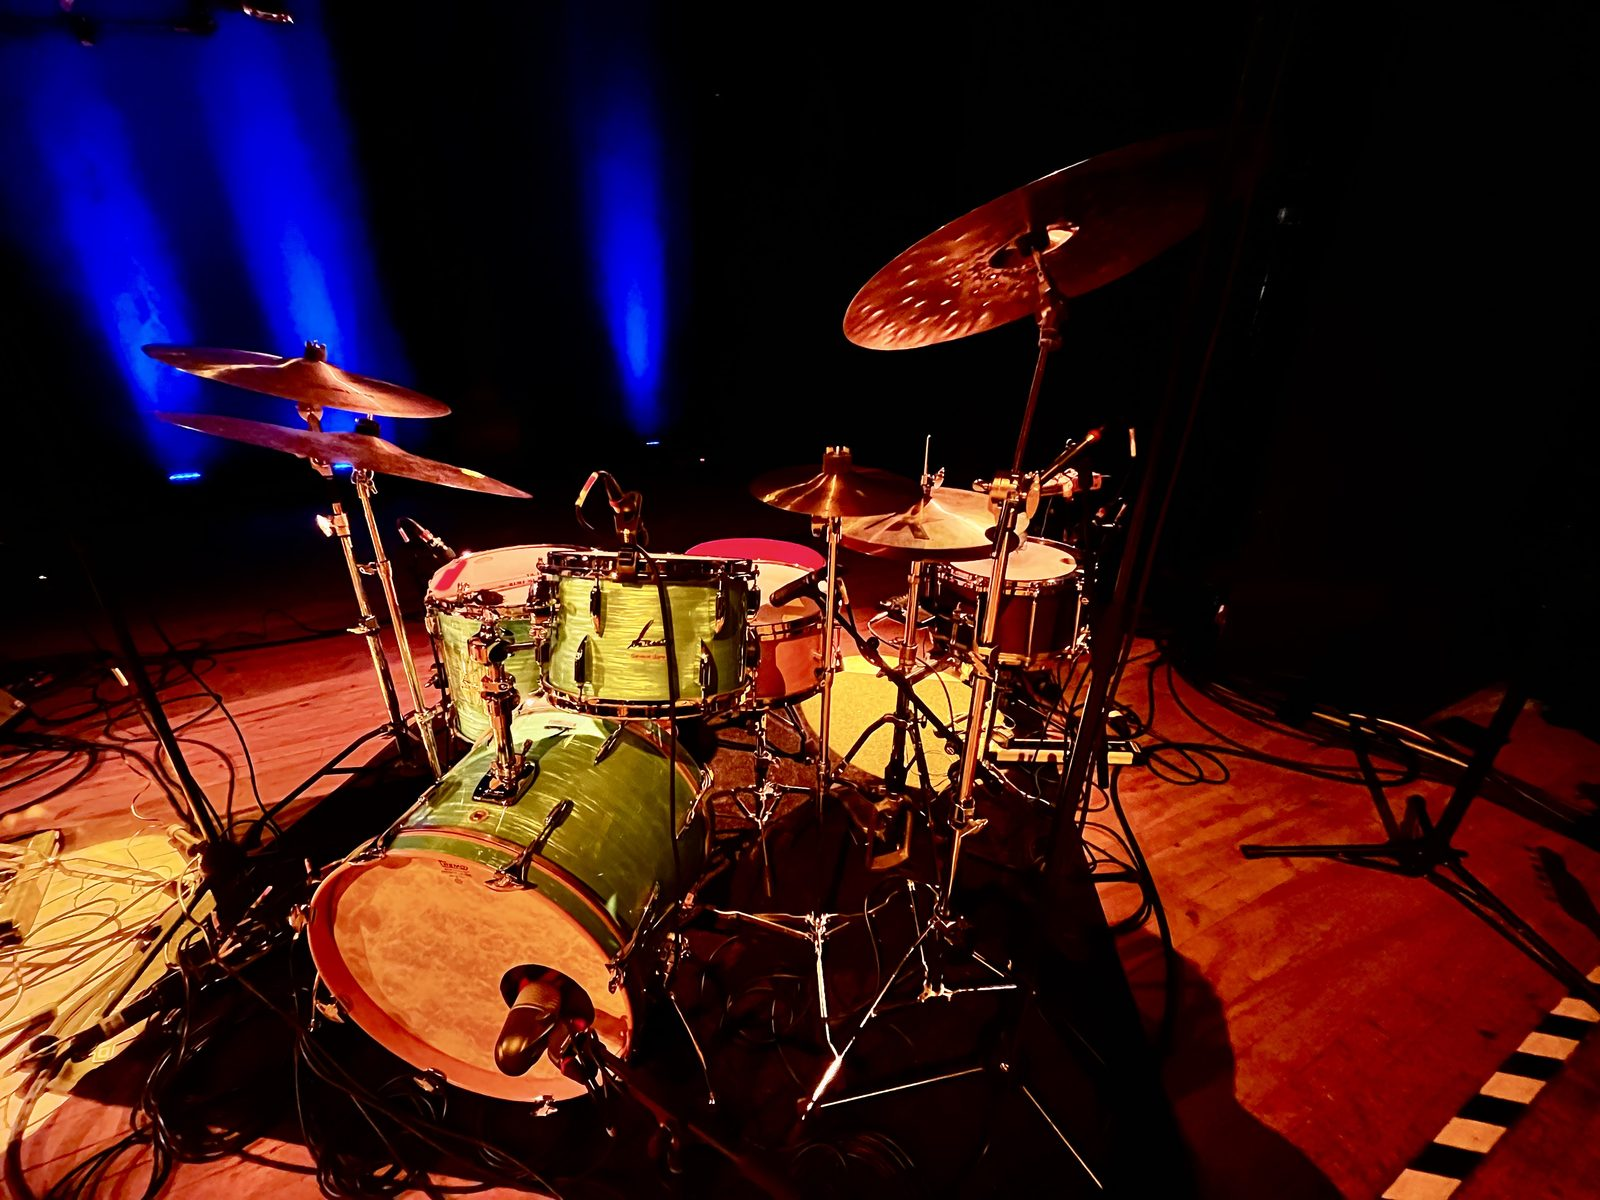
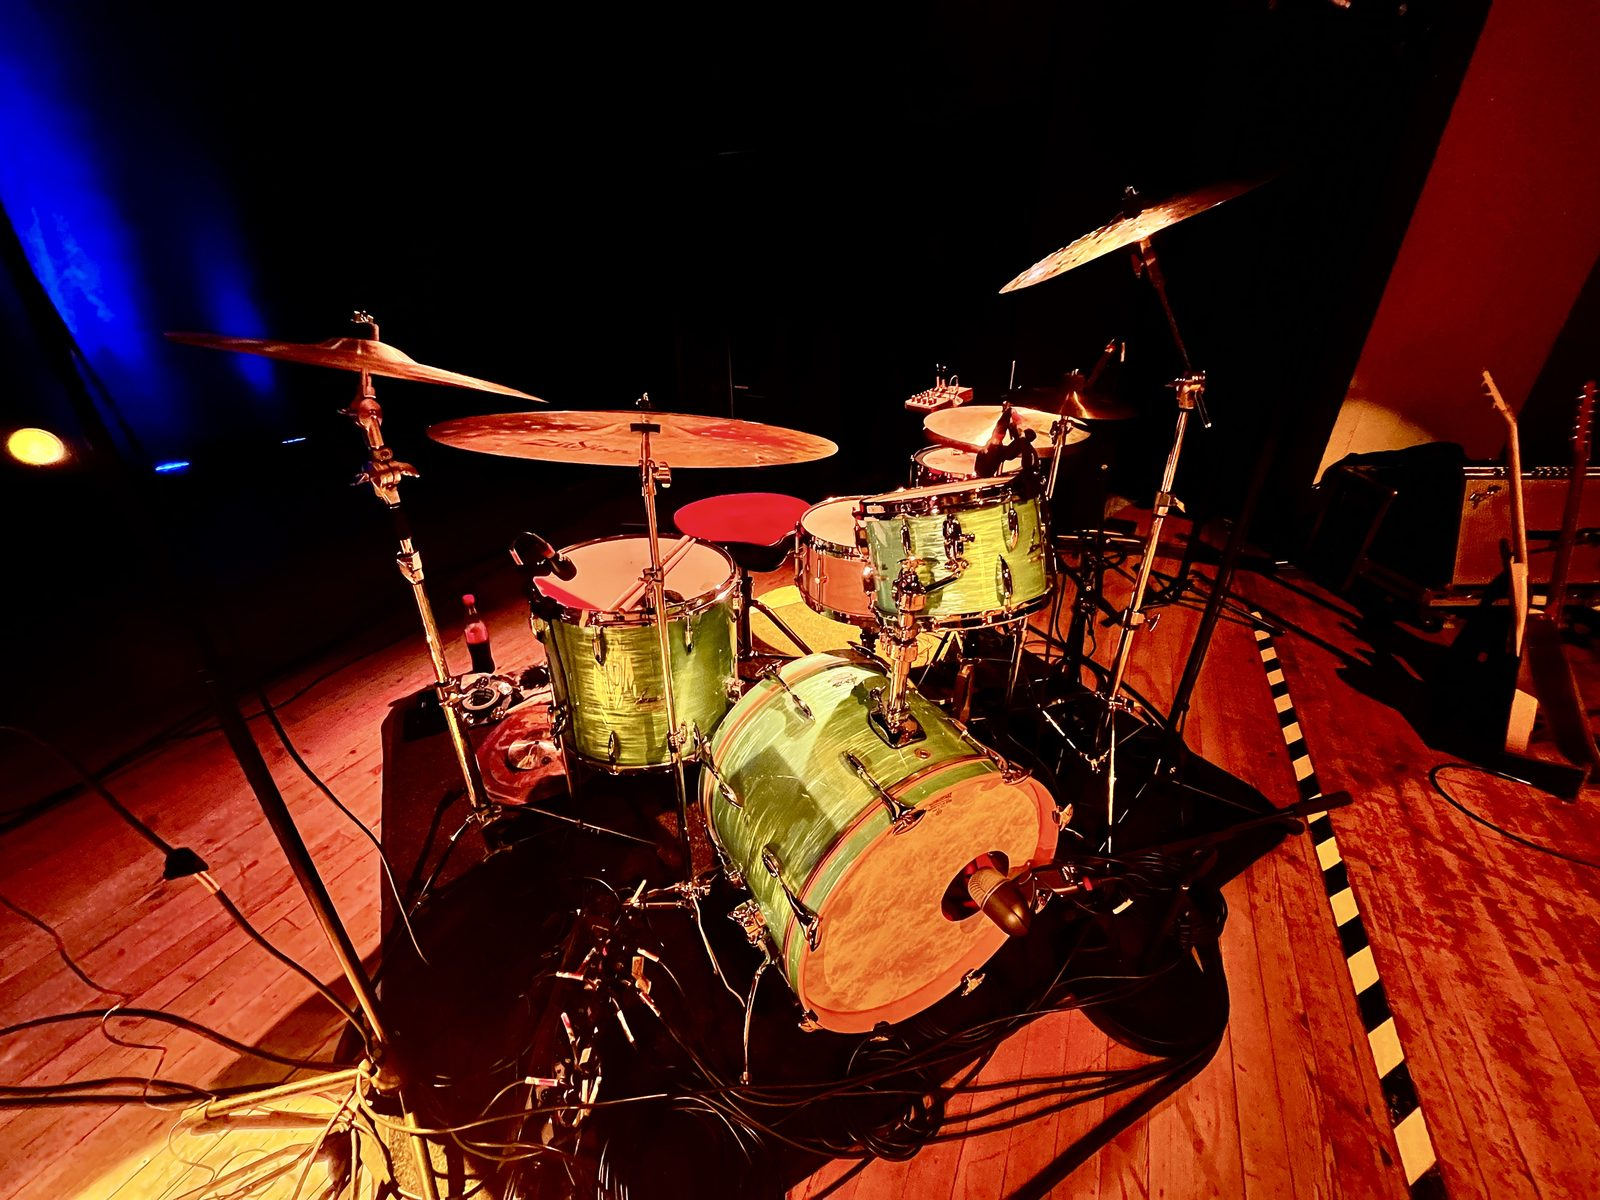
Sonor-Fotos: Bild 2 und 3 getauscht

diff --git a/CLAUDE.md b/CLAUDE.md
@@ -566,7 +566,7 @@ Abstand nach oben), Satz `gear.sonor.text` (i18n, 3 Sprachen — bewusst nur
 Behauptung, da Leo es als "mein Sonor Vintage Series" beschrieb), darunter
 eine normale `.epk-gallery.epk-gallery--color` mit 4 Fotos des grünen Kits
 (`assets/images/sonor-photo-1.jpg`–`-4.jpg`, aus iPhone-Originalen
-`IMG_8338/8339/8343/8346.jpeg` 4032×3024 auf 1600×1200 skaliert, JPEG q82;
+`IMG_8338/8343/8339/8346.jpeg` (in dieser Reihenfolge, 2↔3 getauscht) 4032×3024 auf 1600×1200 skaliert, JPEG q82;
 Grid zeigt sie quadratisch zugeschnitten, die Lightbox das volle 4:3-Bild).
 Kein Credit/`data-credit` (Leos eigene Fotos). Originale in
 `Inbox/processed/`. Neue

diff --git a/CHANGELOG.md b/CHANGELOG.md
@@ -5,6 +5,10 @@ Aktueller Zustand/Architektur steht in `CLAUDE.md`, nicht hier.
 
 ## Erledigt (chronologisch, neueste zuerst)
 
+- **Sonor-Fotos: Bild 2 und 3 getauscht (2026-10-04).** Dateien
+  `sonor-photo-2.jpg`/`-3.jpg` vertauscht (Reihenfolge jetzt 8338, 8343, 8339,
+  8346).
+
 - **Gear: Sonor Vintage Series (2026-10-04).** 4 Fotos aus der Inbox
   (`IMG_8338/8339/8343/8346.jpeg`, iPhone 4032×3024) → `sonor-photo-1…4.jpg`
   (1600×1200, q82, EXIF-Rotation angewendet), neuer Block unter Vision Ears in
